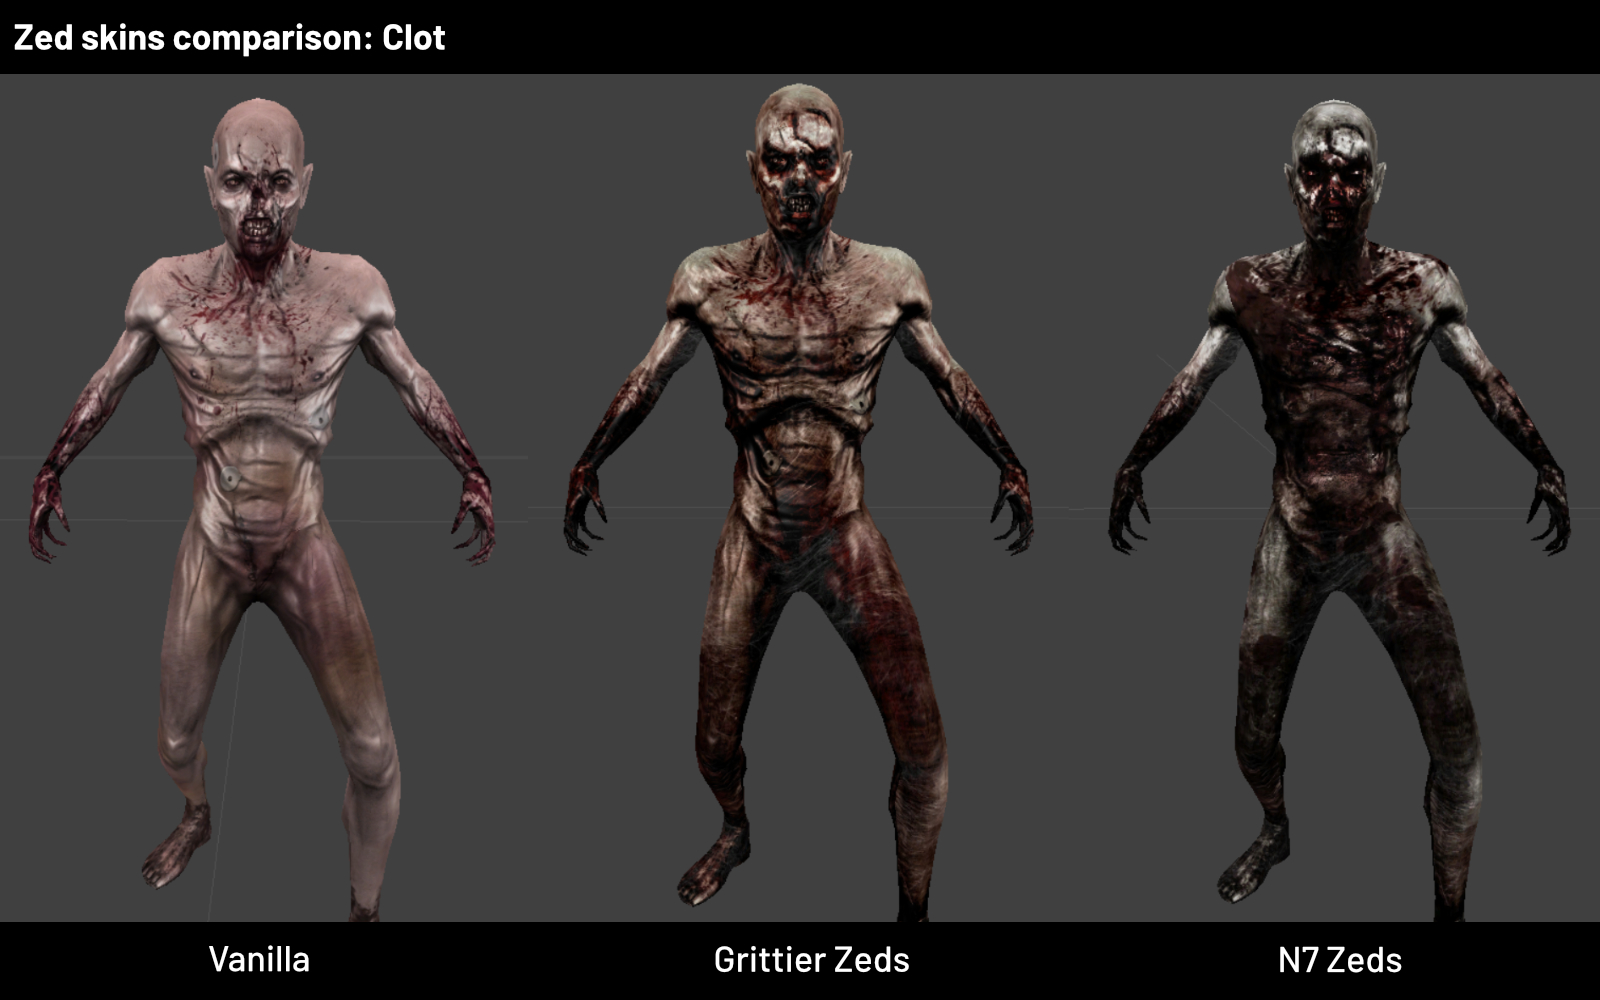
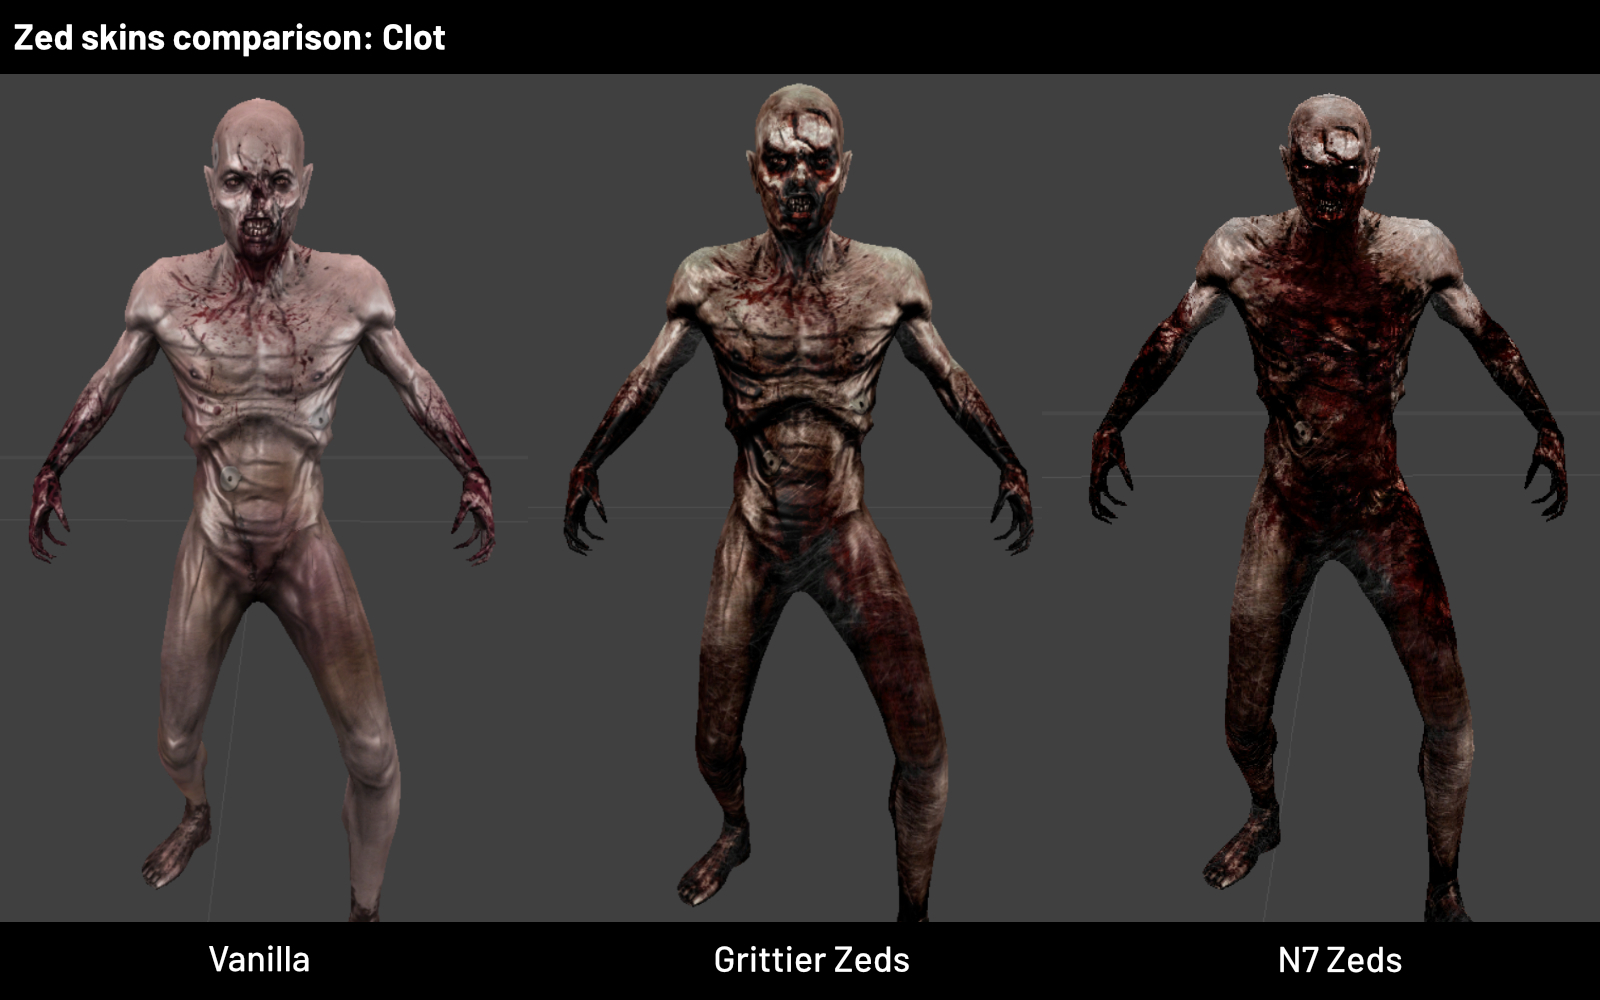
feat: N7ZS-002 - v1.1.0 img update

Changed region(s): [[0.6562, 0.093, 1.0, 0.93]]

diff --git a/README.md b/README.md
@@ -7,9 +7,9 @@ Majorly reworked, custom version of the known Grittier Zeds texture pack. Used i
 
 Some of the original pack's skins (Gorefast, Bloat, Siren) have been added a few details from the Killing Floor Mod textures giving the zeds a more threatening and mutilated yet still quite natural look. 
 
-Some skins have been muchly reconsidered either due to poor appearance decisions in the original pack or out of personal preference (Clot, Crawler, Scrake, Fleshpound).
+Some skins have been muchly reconsidered either due to poor appearance decisions in the original pack or out of personal preference (Clot, Crawler, Stalker, Scrake, Fleshpound).
 
-A few zeds have been left unchanged (Stalker, Husk, Patriarch).
+A few zeds have been left unchanged (Husk, Patriarch).
 
 ### Installation
 
